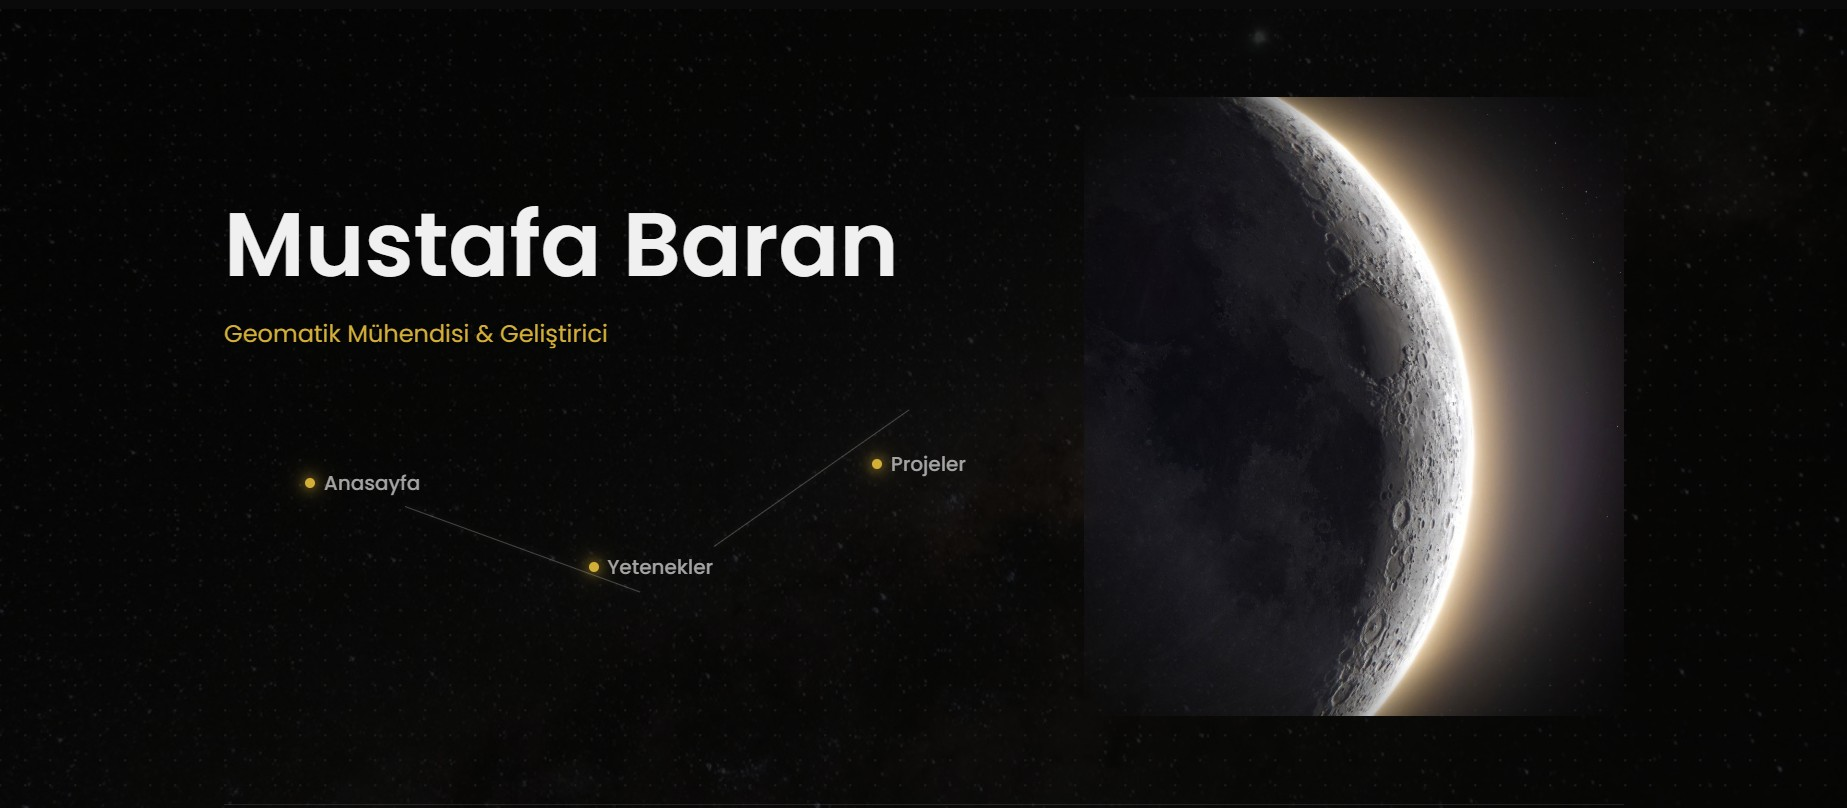
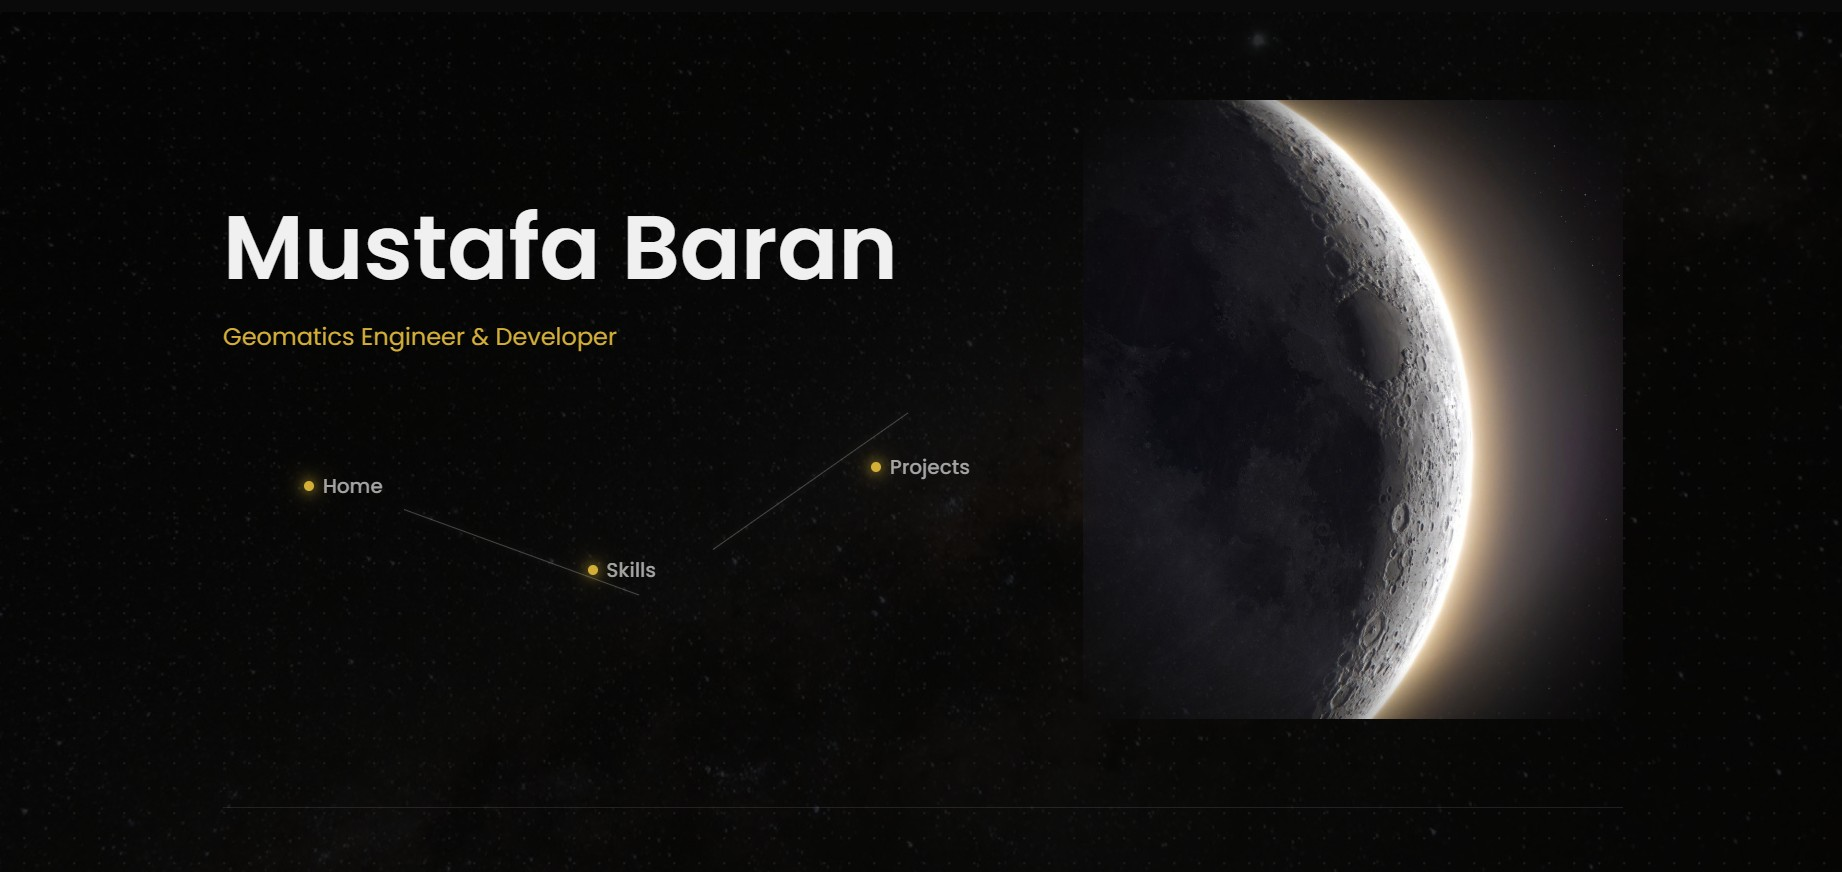
Screenshots and Readme updated.

diff --git a/README.md b/README.md
@@ -1,61 +1,62 @@
-# GMT 458 - Kişisel Web Portfolyo Sayfası: Mustafa Baran
+# GMT 458 - Personal Web Portfolio: Mustafa Baran
 
-Bu proje, Hacettepe Üniversitesi GMT 458 Web GIS dersi kapsamında geliştirilmiş kişisel bir portfolyo web sitesidir. HTML, CSS ve JavaScript kullanılarak oluşturulmuş, OpenLayers ile interaktif harita özellikleri eklenmiş ve modern web tasarım prensipleriyle estetik bir görünüm kazandırılmıştır.
+This project is a personal portfolio website developed as part of the GMT 458 Web GIS course at Hacettepe University. Built using HTML, CSS, and JavaScript, it features interactive map functionalities via OpenLayers and boasts a modern aesthetic guided by contemporary web design principles.
 
-**Canlı Demo:** [Sitenin Canlı Halini Görüntüle](https://mustafabtw.github.io/personal_web_page_webgis_mustafa_baran/) 
-
----
-
-## Proje Görünümü
-
-**Örnek Ekran Görüntüleri:**
-![Anasayfa Görünümü](images/screenshot-anasayfa.jpg)
-![Harita Detayı](images/screenshot-harita.jpg)
-![Yetenekler Tablosu](images/screenshot-yetenekler.jpg)
----
-
-## Temel Özellikler
-
-* **Modern & Fütüristik Tasarım:** Karanlık tema üzerine kurulu, Poppins fontu kullanılarak hazırlanmış, altın rengi (`#D4AF37`) vurgulara sahip minimalist ve şık bir arayüz.
-* **Asimetrik Hero Bölümü (Anasayfa):** Sol tarafta metin ve navigasyon, sağ tarafta ise kenarları yumuşatılmış dikey bir Ay görseli bulunan etkileyici bir karşılama ekranı.
-* **Takım Yıldızı Navigasyonu:** Sayfalar arası geçişi sağlayan linkler, statik bir menü yerine, parlayan yıldızlar ve onları birleştiren çizgilerden oluşan tematik bir takım yıldızı şeklinde tasarlanmıştır.
-* **Çok Sayfalı Yapı:** Site, "Anasayfa", "Yetenekler" ve "Projeler" olmak üzere üç ana bölümden oluşmaktadır.
-* **İnteraktif OpenLayers Haritası:** Anasayfada yer alan harita, OpenStreetMap altlığı üzerinde benim kişisel konumunu (Ankara) ve staj yaptığım yerleri (Kayseri, Adana) özel ikonlarla göstermektedir.
-    * **Resimli Pop-up'lar:** Staj yeri ikonlarına tıklandığında, ilgili yerin fotoğrafını ve bilgisini içeren bilgilendirme pencereleri açılır. Görseller, popup içine kırpılmadan sığdırılmıştır.
-* **Resimli Yetenekler Tablosu:** "Yetenekler" sayfasında, kullanılan teknolojiler (Python, QGIS, AutoCAD Civil 3D) logolarıyla birlikte listelenmiştir.
-* **Logolu Proje Kartları:** "Projeler" sayfasında, bitirme projesi ve staj deneyimleri, ilgili kurumların logolarıyla birlikte (Hacettepe, Öksüt, SNH) modern kartlar içinde sunulmuştur.
-* **Kaydırma Animasyonları:** Sayfa aşağı kaydırıldıkça içerik bölümlerinin (`section`) yumuşak bir animasyonla ekrana gelmesi sağlanmıştır.
-* **Mikro-Etkileşimler:** Navigasyon linkleri, tablo satırları ve proje kartları gibi elementlere, kullanıcı etkileşimini artıran hover (üzerine gelme) efektleri eklenmiştir.
-* **Geliştirilmiş Footer:** Sayfa altında LinkedIn profilime yönlendiren bir sosyal medya ikonu bulunmaktadır.
-* **Özel Favicon:** Tarayıcı sekmesinde siteyi temsil eden özel bir ikon kullanılmıştır.
+**Live Demo:** [View the Live Site](https://mustafabtw.github.io/personal_web_page_webgis_mustafa_baran/) 
 
 ---
 
-## Kullanılan Teknolojiler
+## Project Preview
 
-* **HTML5:** Sayfa yapısı ve içeriği.
-* **CSS3:** Tasarım, yerleşim, animasyonlar ve modern estetik (Flexbox, CSS Değişkenleri, Maskeleme, `object-fit`).
-* **JavaScript (Vanilla JS):** Kaydırma animasyonları (`IntersectionObserver`) ve OpenLayers haritasının dinamik işlevleri (ikon ekleme, pop-up yönetimi).
-* **OpenLayers:** İnteraktif harita oluşturma ve yönetimi.
-* **Google Fonts (Poppins):** Modern ve okunaklı yazı tipi.
-* **FontAwesome:** Sosyal medya ikonları.
-* **Git & GitHub:** Versiyon kontrolü ve projenin barındırılması.
-* **GitHub Pages:** Projenin canlı olarak yayınlanması.
+**Example Screenshot Code (Replace these lines with your actual images):**
+`![Homepage View](images/screenshot-anasayfa.jpg)`
+`![Map Detail](images/screenshot-harita.jpg)`
+`![Skills Table](images/screenshot-yetenekler.jpg)`
 
 ---
 
-## Yapay Zeka (AI) Kullanım Raporu
+## Core Features
 
-Bu projenin geliştirilmesi sırasında, karşılaşılan zorlukları aşmak ve modern web tekniklerini öğrenmek amacıyla Yapay Zeka (AI) kodlama asistanından destek alındı. Temel HTML/CSS yapısı ve içerik yerleşimi tarafımca yapılmış olup, AI daha çok aşağıdaki spesifik ve ileri seviye konularda bir "eğitmen" rolü üstlenmiştir:
+* **Modern & Futuristic Design:** A minimalist and sleek interface built on a dark theme using the Poppins font, accented with a gold color (`#D4AF37`).
+* **Asymmetric Hero Section (Homepage):** An engaging landing view featuring text, navigation, and a profile picture on the left, complemented by a vertically oriented Moon image with softened edges on the right.
+* **Constellation Navigation:** Links for page navigation are designed as a thematic constellation, with glowing stars connected by lines, instead of a static menu.
+* **Multi-Page Structure:** The site comprises three main sections: "Home," "Skills," and "Projects."
+* **Interactive OpenLayers Map:** The homepage features a map centered on Turkey, displaying the user's personal location (Ankara) and internship locations (Kayseri, Adana) with custom icons on an OpenStreetMap base layer.
+    * **Illustrated Pop-ups:** Clicking on internship icons opens informative pop-up windows containing relevant photos and details. Images are fitted (`object-fit: contain`) within the pop-up without cropping.
+* **Skills Table with Images:** The "Skills" page lists used technologies (Python, QGIS, AutoCAD Civil 3D) along with their respective logos in a structured table.
+* **Project Cards with Logos:** The "Projects" page showcases the graduation project and internship experiences within modern cards, each featuring the logo of the corresponding institution (Hacettepe, Öksüt, SNH).
+* **Scroll Animations:** Content sections (`section`) gently fade and slide into view as the user scrolls down the page, implemented using the `IntersectionObserver` API.
+* **Micro-interactions:** Hover effects are added to navigation links, table rows, and project cards to enhance user interaction and provide visual feedback.
+* **Enhanced Footer:** Includes a social media icon linking to the user's LinkedIn profile.
+* **Custom Favicon:** A custom icon represents the site in browser tabs.
 
-* **Öğrenilen Kilit Konular:**
-    * Kaydırma Animasyonları (`IntersectionObserver` API).
-    * İnteraktif Harita Geliştirmeleri (Özel ikonlar, **resimli pop-up'lar**).
-    * İleri Düzey CSS Teknikleri (`mask-image`, `object-fit`, takım yıldızı navigasyonu).
-* **Hatırlatılan veya Hızlandırılan Süreçler:**
-    * CSS Flexbox kullanımı.
-    * Basit kodlama hatalarının (dosya yolları, etiket kapatma) tespiti.
-* **Tahmini AI Kullanım Süresi:**
-    * Bu projede, özellikle yukarıda belirtilen ileri seviye konuların öğrenilmesi ve uygulanması için yaklaşık olarak 1 saat boyunca Yapay Zeka asistanı ile birlikte çalışılmıştır.
+---
+
+## Technologies Used
+
+* **HTML5:** Structure and content of the web pages.
+* **CSS3:** Styling, layout, animations, and modern aesthetics (Flexbox, CSS Variables, Masking, `object-fit`).
+* **JavaScript (Vanilla JS):** Scroll animations (`IntersectionObserver`) and dynamic functionalities of the OpenLayers map (adding features, pop-up management).
+* **OpenLayers:** Creation and management of the interactive map.
+* **Google Fonts (Poppins):** Modern and readable typography.
+* **FontAwesome:** Social media icons.
+* **Git & GitHub:** Version control and project hosting.
+* **GitHub Pages:** Live deployment of the website.
+
+---
+
+## Artificial Intelligence (AI) Usage Report
+
+During the development of this project, support was sought from an Artificial Intelligence (AI) coding assistant to overcome challenges and learn modern web techniques. While the fundamental HTML/CSS structure and content placement were handled independently, the AI primarily served as a "tutor" for the following specific and advanced topics:
+
+* **Key Concepts Learned from AI:**
+    * **Scroll Animations:** Utilizing the `IntersectionObserver` API with JavaScript to make content sections appear smoothly upon scrolling.
+    * **Interactive Map Enhancements:** Understanding the logic behind adding custom icons and **pop-up windows containing both text and images** to a standard OpenLayers map.
+    * **Advanced CSS Techniques:** Implementing `mask-image` to blend image edges softly into the background (vignette effect) and using `object-fit` for proper image scaling within containers. Conceptualizing and implementing the constellation navigation using `position: absolute` and pseudo-elements (`::before`, `::after`).
+* **Processes Reminded or Expedited:**
+    * Reminders on using CSS Flexbox for creating and aligning complex layouts more quickly.
+    * Faster identification of simple coding errors like incorrect file paths (`.jpg` vs. `.jpeg`) or improperly closed HTML tags.
+* **Estimated AI Usage Time:**
+    * Throughout this project, the AI assistant was consulted for approximately 1 hour, particularly for learning and implementing the advanced topics mentioned above.
 
 ---
